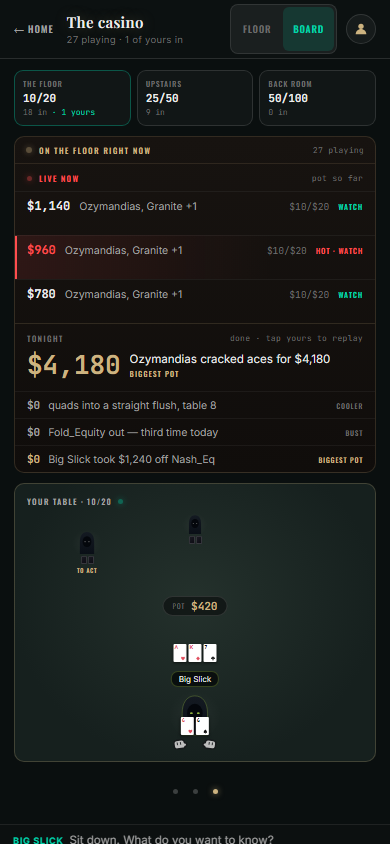
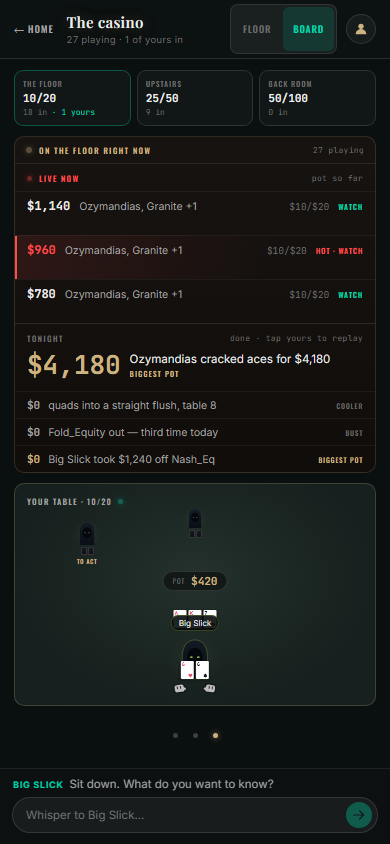
fix: fit live casino floors to their available space

diff --git a/client/e2e/desk.spec.js b/client/e2e/desk.spec.js
@@ -30,6 +30,7 @@
 // Look: client/e2e/__screenshots__/desk3-*.png
 
 import { test, expect } from '@playwright/test';
+import { felts as floorFelts } from '../src/test/fixtures/rooms.js';
 import { bigBluffHand } from '../src/test/fixtures/flagged.js';
 
 const HOME = 'http://127.0.0.1:5199/';
@@ -192,9 +193,10 @@ async function stub(page, { agents = AGENTS, game = GAME, slots = null } = {}) {
       WebApp: {
         initData: 'user=%7B%22id%22%3A4242%7D&auth_date=1756900000&hash=deadbeef',
         initDataUnsafe: { user: { id: 4242, first_name: 'Jens' } },
-        viewportHeight: 900,
+        get viewportHeight() { return window.innerHeight; },
         ready() {}, expand() {}, disableVerticalSwipes() {},
-        onEvent() {}, offEvent() {},
+        onEvent(type, fn) { if (type === 'viewportChanged') window.addEventListener('resize', fn); },
+        offEvent(type, fn) { if (type === 'viewportChanged') window.removeEventListener('resize', fn); },
       },
     };
   });
@@ -651,4 +653,44 @@ test('BUG-100: desktop condition labels stay below the stack and equity',async({
     barsTop:el.querySelector('.felt-bars').getBoundingClientRect().top,
   }));
   expect(bounds.barsTop).toBeGreaterThanOrEqual(bounds.numbersBottom+4);
+});
+
+
+test.describe('BUG-103 · populated casino floor uses its stage', () => {
+  for (const size of [{width:1280,height:720}, ...SIZES]) {
+    test('late tables fit both axes at '+size.width+'×'+size.height, async ({page}) => {
+      await desk(page,size);
+      await page.addInitScript(() => {
+        const Base=window.WebSocket;
+        window.__floorSockets=[];
+        window.WebSocket=class extends Base { constructor(...args) { super(...args); window.__floorSockets.push(this); } };
+      });
+      await page.route('**/api/rooms',r=>r.fulfill({json:{rooms:ROOMS.map(r=>({...r,tables:6}))}}));
+      await page.reload();
+      await page.getByTestId('home-door').click();
+      await expect(page.getByTestId('floor-view')).toBeVisible();
+      await expect(page.getByTestId('the-floor')).toHaveCount(0);
+      const roomId=await page.getByTestId('floor-view').getAttribute('data-room');
+      const tables=Array.from({length:6},(_,i)=>({...floorFelts[i%2],tableId:'tbl-geometry-'+i,room:roomId}));
+      await page.evaluate(tables=>window.__floorSockets.forEach(socket=>socket.dispatch('message',{data:JSON.stringify({type:'room_tables',tables,rooms:Object.fromEntries(tables.map(t=>[t.tableId,t.room]))})})),tables);
+      await expect(page.locator('.csn-felt58')).toHaveCount(6);
+      async function fits() {
+        const available=await page.locator('.csn-floor__room').boundingBox();
+        const plan=await page.getByTestId('the-floor').boundingBox();
+        const maxWidth=Math.min(available.width-60,(available.height-40)*390/470);
+        expect(plan.width).toBeCloseTo(maxWidth,0);
+        expect(plan.width/plan.height).toBeCloseTo(390/470,3);
+        expect(plan.x+plan.width/2).toBeCloseTo(available.x+available.width/2,0);
+        expect(plan.y).toBeGreaterThanOrEqual(available.y+19);
+        expect(plan.y+plan.height).toBeLessThanOrEqual(available.y+available.height-19);
+        expect(await page.locator('.csn-felt58').evaluateAll(els=>els.every(el=>{const r=el.getBoundingClientRect();return el.contains(document.elementFromPoint(r.x+r.width/2,r.y+r.height/2));}))).toBe(true);
+      }
+      await expect.poll(async()=>await page.getByTestId('the-floor').evaluate(el=>el.clientWidth)).toBeGreaterThan(390);
+      await fits();
+      await page.screenshot({path:'../artifacts/casino23-'+size.width+'.png'});
+      await page.setViewportSize({width:size.width,height:600});
+      await expect.poll(async()=> (await page.getByTestId('the-floor').boundingBox()).height).toBeLessThan(540);
+      await fits();
+    });
+  }
 });

diff --git a/client/src/components/casino/FloorView.jsx b/client/src/components/casino/FloorView.jsx
@@ -52,7 +52,7 @@
 // bottom wall, the board bolted beside the stairs. This file is the screen
 // around it — the way in, the way out, the fallback, and the real board.
 
-import { useEffect, useRef, useState } from 'react';
+import { useLayoutEffect, useRef, useState } from 'react';
 
 import { useSheetDrag } from '../../hooks/useSheetDrag.js';
 import { RosterButton } from '../Header.jsx';
@@ -242,36 +242,29 @@ export function FloorView({
     else standing.push(agent);
   }
 
-  // The plan is drawn in 390 units and scaled, so the room needs a width. It
-  // is measured rather than assumed: the desk's room column is whatever the
-  // stage leaves it, and a hard-coded 390 in the middle of a 1,000px column is
-  // the phone's layout with air poured down one side.
-  //
-  // Measured off a wrapper with NO PADDING of its own. The first version
-  // measured the scrolling column, whose clientWidth includes its 14px gutters
-  // — so at 390 it reported 390, the plan scaled by 1.0 into a 362px box, and
-  // the stairs and the bar hung off the right edge of the phone.
+  // DkFloorStage: fit the 390×470 plan into both available axes. The phone
+  // stays width-led and scrolls; the desktop keeps the bar inside the stage.
+  // Tables arrive asynchronously, so attach measurement when this conditional
+  // wrapper appears, and reconnect if the list disappears/reappears.
   const roomRef = useRef(null);
   const [floorW, setFloorW] = useState(FLOOR_W);
-  useEffect(() => {
+  const hasFelts = ranked.length > 0;
+  useLayoutEffect(() => {
     const el = roomRef.current;
     if (!el) return undefined;
     const measure = () => {
       const w = el.clientWidth;
-      // Capped, and not at the column's width. The plan is drawn at 390 and a
-      // 1,000px column would blow it up to 2.5x — the felts become lakes, the
-      // bodies stay specks on them, and the room reads as a magnified phone,
-      // which is exactly what FIX-6 fixed about the desk casino. 520 is about
-      // a third bigger than drawn: enough that the desk is using its width,
-      // not so much that the room stops being a room.
-      if (w > 0) setFloorW(Math.min(520, w));
+      const h = el.clientHeight;
+      if (w > 0 && (!desktop || h > 0)) {
+        setFloorW(desktop ? Math.min(w, h * FLOOR_W / FLOOR_H) : w);
+      }
     };
     measure();
     if (typeof ResizeObserver === 'undefined') return undefined;
     const ro = new ResizeObserver(measure);
     ro.observe(el);
     return () => ro.disconnect();
-  }, []);
+  }, [hasFelts, desktop]);
 
   return (
     <div

diff --git a/client/src/components/casino/FloorView.test.jsx b/client/src/components/casino/FloorView.test.jsx
@@ -11,7 +11,7 @@
 // becomes a place.
 
 import { describe, expect, it, vi } from 'vitest';
-import { render, screen } from '@testing-library/react';
+import { act, render, screen } from '@testing-library/react';
 import userEvent from '@testing-library/user-event';
 
 import { FloorView, liveTablesIn, unnamedCount, tableIdOf, feltsForRoom } from './FloorView.jsx';
@@ -314,5 +314,29 @@ describe('CASINO-2 job 5 · when the floor has not said', () => {
   it('a genuinely empty room says THAT instead', () => {
     render(<FloorView room={room({ tables: 0, seated: 0 })} felts={[]} onClose={() => {}} />);
     expect(screen.getByText('Nothing is running in here right now.')).toBeInTheDocument();
+  });
+});
+
+
+describe('BUG-103 · a floor that arrives after the room opens', () => {
+  it.each([false, true])('measures late tables and subsequent resizes (desktop=%s)', desktop => {
+    let width = desktop ? 800 : 362, height = 800, observer;
+    const widthSpy = vi.spyOn(HTMLElement.prototype, 'clientWidth', 'get').mockImplementation(function () { return this.classList.contains('csn-floor__plan') ? width : 0; });
+    const heightSpy = vi.spyOn(HTMLElement.prototype, 'clientHeight', 'get').mockImplementation(function () { return this.classList.contains('csn-floor__plan') ? height : 0; });
+    const disconnect = vi.fn();
+    vi.stubGlobal('ResizeObserver', class { constructor(fn) { observer = fn; } observe() {} disconnect() { disconnect(); } });
+    const view = render(<FloorView room={room()} desktop={desktop} />);
+    const expected = () => desktop ? Math.min(width, height * 390 / 470) : width;
+    try {
+      view.rerender(<FloorView room={room()} desktop={desktop} felts={[felt()]} />);
+      expect(parseFloat(screen.getByTestId('the-floor').style.width)).toBeCloseTo(expected(), 4);
+      width = desktop ? 480 : 300; height = 420;
+      act(() => observer());
+      expect(parseFloat(screen.getByTestId('the-floor').style.width)).toBeCloseTo(expected(), 4);
+      view.rerender(<FloorView room={room()} desktop={desktop} />);
+      expect(disconnect).toHaveBeenCalledTimes(1);
+      view.rerender(<FloorView room={room()} desktop={desktop} felts={[felt()]} />);
+      expect(parseFloat(screen.getByTestId('the-floor').style.width)).toBeCloseTo(expected(), 4);
+    } finally { view.unmount(); widthSpy.mockRestore(); heightSpy.mockRestore(); vi.unstubAllGlobals(); }
   });
 });

diff --git a/client/src/styles/casino.css b/client/src/styles/casino.css
@@ -803,7 +803,7 @@
    beside, and it brings the board along so the ticker is not lost on the way
    in. */
 .csn-floor--desk .csn-floor__body { flex-direction: row; }
-.csn-floor--desk .csn-floor__room { padding: 16px 20px; }
+.csn-floor--desk .csn-floor__room { min-width: 0; padding: 20px 30px; }
 .csn-floor--desk .csn-floor__felts {
   grid-template-columns: repeat(auto-fill, minmax(220px, 1fr));
   gap: 14px;
@@ -838,6 +838,16 @@
   min-width: 0;
 }
 
-/* On the desk the plan is capped well under the column's width, so it is
-   centred in what is left rather than pinned to one edge of it. */
-.csn-floor--desk .csn-floor__plan { display: flex; justify-content: center; }
+/* DkFloorStage's 30px horizontal/20px vertical breathing room surrounds a
+   uniformly scaled plan. Notes reserve their own space below it. */
+.csn-floor--desk .csn-floor__plan {
+  flex: 1;
+  min-height: 0;
+  display: flex;
+  align-items: center;
+  justify-content: center;
+}
+.csn-floor--desk .csn-floor58 {
+  border-radius: 5px;
+  box-shadow: 0 26px 70px rgba(0, 0, 0, 0.6);
+}

diff --git a/read-me-claude/MORNING_REPORT.md b/read-me-claude/MORNING_REPORT.md
@@ -1,6 +1,6 @@
 # Railbird — progress and handoff, 9 September 2026
 
-Twenty-two implementation batches are prepared. The full design/spec goal remains active: this is a verified development milestone, not a claim that the product is ready for final friends-shareable sign-off. No deployment or Claude/Opus review is claimed.
+Twenty-three implementation batches are prepared. The full design/spec goal remains active: this is a verified development milestone, not a claim that the product is ready for final friends-shareable sign-off. No deployment or Claude/Opus review is claimed.
 
 ## What is now implemented
 
@@ -8,21 +8,22 @@ Twenty-two implementation batches are prepared. The full design/spec goal remain
 - Board 42's companion, conversation, compact profile, roster, absence and TV states use actual stored data and authenticated actions. Desktop has the wider room, compact profile and latest contextual header.
 - First-agent entry uses the actual recruiter and four stages, without a collar. Hood/glow identity persists and the forming preview sits over the desktop room's table.
 - Watch's phone presentation is preserved, with large-win/bust visual effects. Desktop recordings open from casino rows, end honestly and return to their originating board. Missing recorded stack/body data is not invented; the equity number and rope agree.
+- The casino floor scales to its real space, including late live tables and short desktop windows. The welcome example now includes the full phone composer. The repeated desktop Floor heading remains open.
 - Board 41's chosen loading frame and favicon/install/touch/avatar exports are prepared from the shared mark. Avatar export does not mean a Telegram account was changed.
 - The long welcome page shares the actual guest entry and room, followed by the nine L2 explanatory sections. Current product captures replace the previous hand-drawn illustrations. Guest-off deployments show the existing sign-in path. Four section comparisons are in client/e2e/shots/design-batch22-*.png.
 
 ## Verification
 
-The latest full gate passed 105 server checks (two intentional live skips), 2,199 client checks (two existing todos) and all seven end-to-end verifiers. A final client run after the scrolling refinement also passed 2,199. The desktop/draft/landing/welcome browser group passed 43 checks; final welcome passed eight including ordinary/reduced-motion scrolling, and final guest/Home checks passed seven.
+The latest full gate passed 105 server checks (two intentional live skips), 2,201 client checks (two existing todos) and all seven end-to-end verifiers. A final client run after the scrolling refinement also passed 2,199. Batch22's desktop/draft/landing/welcome group passed 43 checks; final welcome passed eight including ordinary/reduced-motion scrolling, and final guest/Home checks passed seven. Batch23's final set passed all 27 desktop cases and two responsive welcome captures; the phone four-agent table remained clickable at both heights.
 
-The production build passed. On a fresh scratch server, all four existing smoke checks and all 20 Home2 checks passed. The new permanent built-welcome smoke also passed: /welcome and /welcome/ serve no-store with the current hashed bundle, responsive product images load, and neither width raises a page error. Main integration is subject to its own final gate; the chat confirms the prepared revision. Nothing has been pushed by Astra.
+The production build passed. On a fresh scratch server, all four existing smoke checks and all 20 Home2 checks passed. The new permanent built-welcome smoke also passed: /welcome and /welcome/ serve no-store with the current hashed bundle, responsive product images load, and neither width raises a page error. Batch22 main integration passed; batch23 adds 27 desktop browser checks, two final welcome captures, all five smoke checks together and all 20 Home2 checks. Its main integration is subject to a final gate; the chat confirms the prepared revision. Nothing has been pushed by Astra.
 
 BUG-94 retains an unexplained earlier Windows child-process exit. BUG-102 records the local invite-test timeout: its inaccurate new-guest fixture and broad query were corrected, and subsequent full runs passed, but resource contention is not proven as the cause. No assertion was skipped or weakened. The overnight execution interruption around 04:56–08:53 remains documented; those hours are not represented as productive work. The scheduled heartbeat was paused at its 09:00 cutoff; the active goal continued afterwards.
 
 ## Remaining work
 
 1. Desktop kitchen-table Watch/Sit actions and the human seating stage are missing (BUG-99). The welcome page currently uses the working phone seating example at either width.
-2. The desktop casino floor uses too little of its stage (BUG-103). Its late ROOM_TABLES measurement and the approved wider geometry need a focused port and browser proof.
+2. Desktop Floor still repeats the shell heading (BUG-104); consolidate its context and controls into one top row. BUG-103 sizing is fixed and paired. Phone Board ordering/panel styling still differs from the authored example.
 3. Finish the current reference-state inventory and identity presentation audit. Separate current requirements from explicitly parked rare-birth rolls and future design waves. Do not invent a collar or an item economy.
 4. Remaining board-41 applications, unspecified celebration audio, external avatar/account settings and undesigned visit/referral/share/fast-forward states need explicit dispositions.
 5. Complete production rollout verification and playtest after deployment. A public config check returned guest=false and botUsername=agenticpoker_bot; these were not changed. Guest entry is not enabled merely because the code exists.

diff --git a/BUGS.md b/BUGS.md
@@ -1,5 +1,8 @@
 # Bug Report — Agentic Poker
-Last updated: 2026-09-08 (Railbird playtest follow-up); statuses and evidence below.
+Last updated: 2026-09-09 (Railbird design completion); statuses and evidence below.
+
+### BUG-104 — desktop casino Floor still repeats the shell header — OPEN
+The populated batch23 screenshot shows The casino and its Home return in the 54px shell, then another room title and THE CASINO return in FloorView. Board's duplicate heading was removed in batch19; the early floorView return still bypasses that shellHeader handling. The approved desktop floor has one top row. Consolidate real room context and Floor/Board controls into the existing shell without losing room selection or return actions.
 
 ### BUG-99 — desktop kitchen table exposes neither Watch nor Sit — OPEN
 The marketing capture opened the desktop table panel but found no home-table-sit. DeskHome passes only slots/seated/onDraft to TableSheet, while the phone passes onWatch/onSit from its running home game. App routes every desktop state through DesktopHome before its phone-only seated branch. This needs actual desktop action wiring and a verified human stage, not a button opening an unseen socket. The welcome seating example is explicitly the phone experience.
@@ -13,8 +16,8 @@ At 375px, the room remained 32px below the viewport after the old 320ms focus ti
 ### BUG-102 — invite unit test exceeds five seconds in a full local gate — OPEN, mitigated setup
 The first batch22 full client gate timed out in the new-visitor invite case; a focused run took about 1.8 seconds. Its newly minted guest incorrectly had a returning owner's household. The fixture now gives it an empty roster, and the exact-heading assertion is scoped to the mounted hero. Referral/heading assertions remain, without a timeout increase or skip. The subsequent full gate and final client run passed all 2199 checks. Resource contention is possible but unproven. Evidence: artifacts/batch22-test-all.log and batch22-test-all-final.log.
 
-### BUG-103 — desktop casino floor leaves much of its stage unused — OPEN
-The paired design-batch22-casino-1280.png shows its six felts and bar using much less space than the approved DkCasinoFloor. FloorView caps a shared 390×470 plan; its one-time measurement effect can encounter a ref not mounted until ROOM_TABLES arrives. Reproduce late-frame sizing, then port the approved desktop geometry and recheck phone layout before closing this item.
+### BUG-103 — late casino tables keep a fixed-width floor — FIXED on design branch
+The measurement effect ran before conditional ROOM_TABLES content existed and never attached when it arrived. Red unit cases measured 390px instead of 362 on phone or 663.83 on desktop; three real-browser regressions also stayed at 390. Measurement now attaches on content appearance and observes both axes. DkFloorStage's 390×470 coordinate space fits available desktop width/height with 30px horizontal and 20px vertical gutters, replacing the stale 520px cap; phone remains width-led. All six felt centers stay reachable through desktop resizes. The permanent 380px board and real room data are retained. Evidence: batch23-unit-red/green and browser-red/green logs, plus design-batch23-casino pairs.
 
 ### BUG-97 — desktop equity number disagrees with its own rope — FIXED on design branch
 The rope read snapshot equity first but the number read only a spoken decision. A silent recorded beat showed 81% on the rope and a dash in the strip; a newer snapshot could also disagree with an older decision. Red regressions are in artifacts/batch21-red.log. Both now use the same snapshot/seat/decision precedence, including recorded completion. Browser checks verify 4% at the first recorded beat and 100% at its won ending.

diff --git a/read-me-claude/OVERNIGHT_DESIGN_WORK.md b/read-me-claude/OVERNIGHT_DESIGN_WORK.md
@@ -122,3 +122,14 @@ Initial new tests needed a filesystem path instead of a transformed asset URL, a
 Build passed. Fresh scratch smoke passed four existing cases (16.6s), Home2 all 20 (18.7s), and the new permanent built-welcome smoke passed both widths and URL spellings. /welcome served no-store with a hashed current bundle and every selected image loaded. No deployment or external account change was made. Public config was guest=false / agenticpoker_bot. Fetch still showed origin/main at c6130b4. Automatic review rejected a broad screenshot restore; all 16 generated test images were preserved with verified SHA-256 backups under artifacts/batch22-generated-screenshots before any further cleanup.
 
 The screenshot cleanup subsequently passed automatic review after SHA-256 verification of every original and backup, restoring only those 16 explicitly named test outputs. No screenshot work was lost.
+
+
+## Day continuation — batch 23
+
+Batch22 committed bb5157a and fast-forwarded to main. Main gate passed 105 server / 2199 client / 7 e2e. Continued on codex/railbird-design-completion.
+
+BUG-103 fixed with red-first unit and browser evidence. The browser fixture initially sent floor tables while the selected room was Upstairs; it now reads the current room ID and supplies six known tables. The genuine red then confirmed the 390px stale floor at all three desktop sizes. The approved floor is 390×470, not Home's 560×700. Both-axis fitting and conditional observer attachment pass 50 focused unit checks and 27 desktop browser cases (26 in the combined set, one contextual-header case separately). Home BUG-55 and two welcome captures also passed; combined set 30 + final header 1. Full gate is recorded in artifacts/batch23-test-all.log.
+
+The refreshed desktop pair was inspected and shows the enlarged room with live data. A remaining repeated Floor heading is filed separately as BUG-104. The phone marketing pair exposed a capture-only height mismatch: desk's stub reported 900px to Telegram at an 844px phone screenshot, cropping the composer. Correcting the fixture and pinning composer bounds precedes the final capture/pair review. No production viewport workaround is needed.
+
+Batch23 final verification: test:all passed 105 server / 2 intentional live skips, 2201 client / 2 existing todos, and 7 e2e. Build passed. Fresh scratch server artifacts/smoke-batch23: all five smoke checks passed together (26.3s), all 20 Home2 checks passed (18.1s). After correcting the capture fixture, all 27 desktop cases plus two welcome captures passed again (29 total); final phone pair inspected with the composer entirely visible. The capture's pre-fix guard failed with composer y=855/height=32 against an 844px screenshot, and the corrected exporter passed all nine images. Fifteen incidental generated test shots were copied and SHA256-verified in artifacts/batch23-generated-screenshots before explicit restoration; new design pairs remain staged. No push or production change.

diff --git a/read-me-claude/DESIGN_GAP.md b/read-me-claude/DESIGN_GAP.md
@@ -1,5 +1,11 @@
 # DESIGN GAP — what the design says, what the app does, what is left
 
+## Design completion — 2026-09-09, batch 23
+
+BUG-103 is resolved: the casino plan measures when live tables arrive and fits DkFloorStage's 390×470 coordinate space into both desktop axes. The former 520px cap is gone; short windows keep all six felt centers and the bar visible. The existing 380px permanent board is retained. Phone plans now measure late content to their actual inner width. Reviewed pairs: client/e2e/shots/design-batch23-casino-{390,1280}.png. The phone marketing fixture now reports the real viewport, so its composer is no longer cropped; both captures have geometry guards.
+
+Remaining casino differences are explicit: the desktop Floor still repeats the shell heading (BUG-104), the phone Board has its existing doorway order and combined live/tonight panel, and actual occupants/results replace authored examples. Empty bar space has no invented crowd. Full gate: 105 server / 2201 client / 7 e2e; final browser 27 desktop + 2 welcome; preserved phone BUG-55 passed both heights; build, all 5 built smoke and 20 Home2 checks passed. The full design goal remains open.
+
 ## Design completion — 2026-09-09, batch 22
 
 The long /welcome page now uses L2's shared hero, actual room and nine approved subjects. Sections, typography, padding and responsive product captures are ported; both routes serve the current bundle. Four unclipped reference/actual pairs were inspected: design-batch22-{home,casino}-{390,1280}.png. Actual screens retain their real table, fixtures, actors and session data; they omit the decorative iPhone status-bar bezel. Section 07 uses the functioning phone seating experience at either width while desktop seating remains unbuilt (BUG-99). The floor pair reveals a remaining desktop sizing gap (BUG-103). L2 is implemented with these explicit product/illustration differences; the overall specification remains incomplete.

diff --git a/CHANGELOG.md b/CHANGELOG.md
@@ -2,6 +2,8 @@
 
 All notable changes to this project are documented here.
 
+- Design completion batch 23: casino floor attaches its measurement when live tables arrive and fits both desktop axes using the reference's proportions (BUG-103). Late phone plans also fit their actual width. Updated welcome examples include the complete phone composer; the exporter checks floor and composer bounds. Duplicate desktop Floor heading remains tracked as BUG-104.
+
 - Design completion batch 22: /welcome shares the current app entry, real guest room and nine L2 sections. Responsive captures of the running product replace the old hand-drawn illustrations. Guest-off deployments keep the real sign-in path; no external setting changed. BUG-100 clears desktop condition labels and BUG-101 waits for actual scrolling before focusing. Built welcome is now in the deployment smoke suite. Desktop table actions and floor sizing remain open (BUG-99/103).
 
 - Design completion batch 21: desktop equity number and rope now share the same source, including silent replay beats and the recorded ending (BUG-97). Unrecorded heat is absent instead of an invented 45% bar (BUG-98). Phone and desktop reuse the same replay snapshot adapter. Watch layout and gameplay are unchanged.
